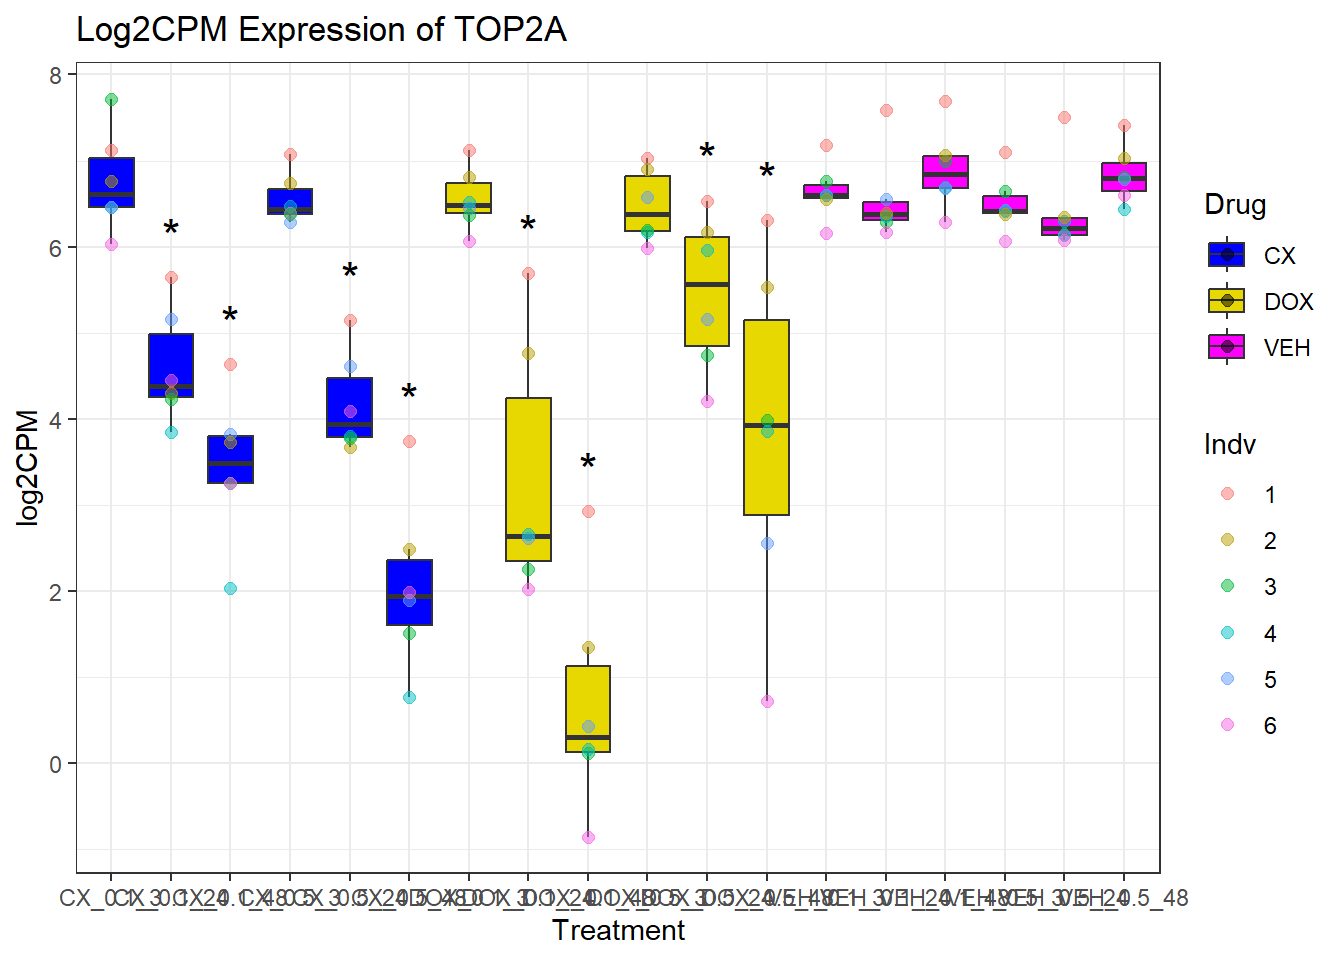
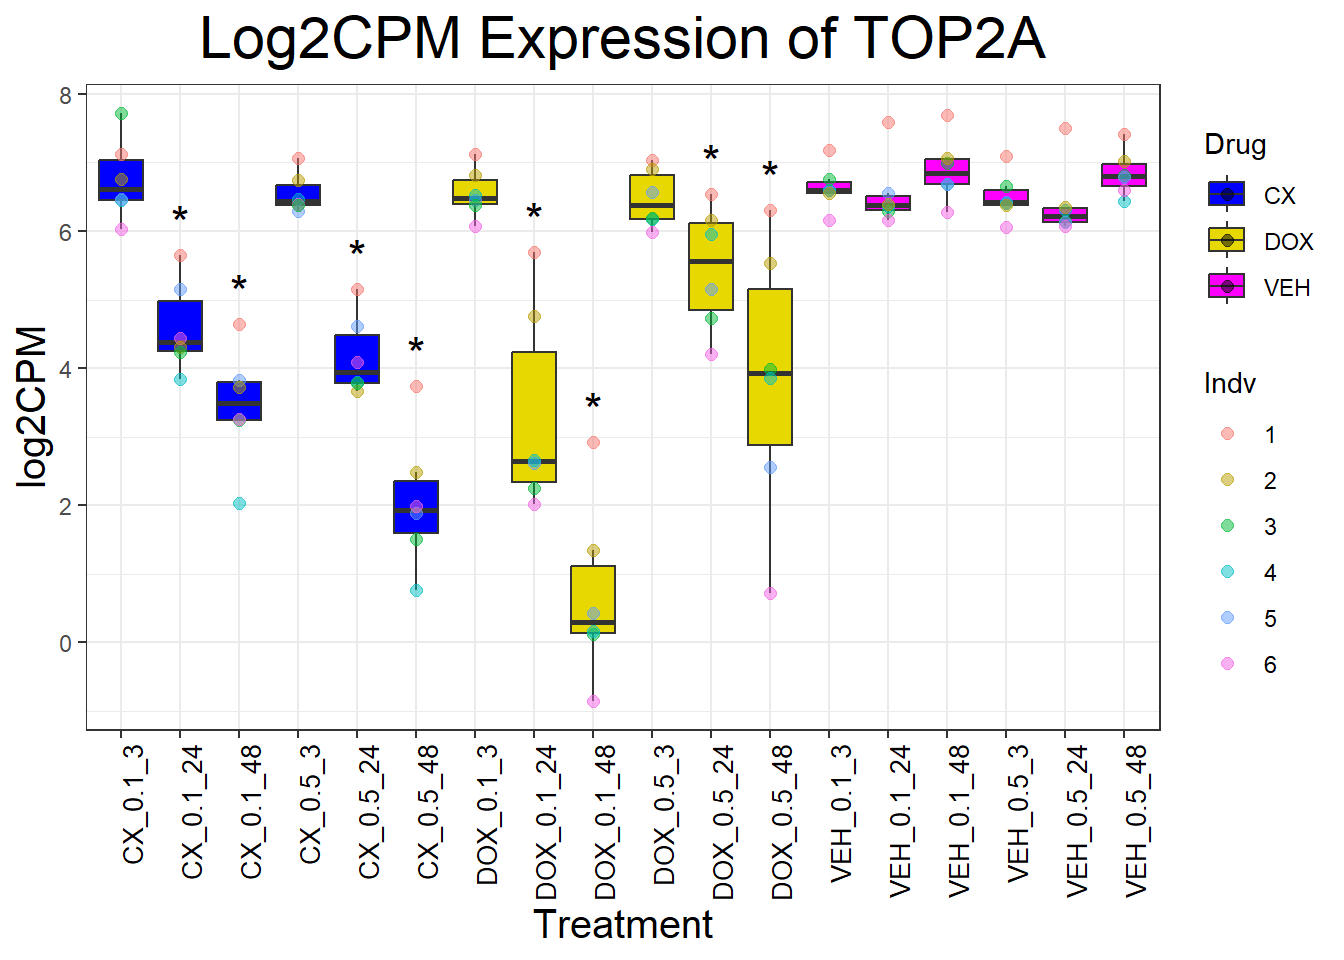
Build site.

diff --git a/docs/Cardiac_and_TOP2_Genes.html b/docs/Cardiac_and_TOP2_Genes.html
@@ -510,15 +510,15 @@ project makes it easier to run your code on other machines.</p>
 <div class="panel panel-default">
 <div class="panel-heading">
 <p class="panel-title">
-<a data-toggle="collapse" data-parent="#workflowr-checks" href="#strongRepositoryversionstrongahrefhttpsgithubcomsayanpaul01CX5461Projecttree91f5f8f51cd57fdd0d6ab9be529ef747ba23f697targetblank91f5f8fa">
+<a data-toggle="collapse" data-parent="#workflowr-checks" href="#strongRepositoryversionstrongahrefhttpsgithubcomsayanpaul01CX5461Projecttree0e79f5b46c58a97a56b44cd383e25e397f65a5ddtargetblank0e79f5ba">
 <span class="glyphicon glyphicon-ok text-success"
 aria-hidden="true"></span> <strong>Repository version:</strong>
-<a href="https://github.com/sayanpaul01/CX5461_Project/tree/91f5f8f51cd57fdd0d6ab9be529ef747ba23f697" target="_blank">91f5f8f</a>
+<a href="https://github.com/sayanpaul01/CX5461_Project/tree/0e79f5b46c58a97a56b44cd383e25e397f65a5dd" target="_blank">0e79f5b</a>
 </a>
 </p>
 </div>
 <div
[2 lines of base64/hex data omitted]
 class="panel-collapse collapse">
 <div class="panel-body">
 <p>
@@ -528,7 +528,7 @@ reproducibility.
 </p>
 <p>
 The results in this page were generated with repository version
-<a href="https://github.com/sayanpaul01/CX5461_Project/tree/91f5f8f51cd57fdd0d6ab9be529ef747ba23f697" target="_blank">91f5f8f</a>.
+<a href="https://github.com/sayanpaul01/CX5461_Project/tree/0e79f5b46c58a97a56b44cd383e25e397f65a5dd" target="_blank">0e79f5b</a>.
 See the <em>Past versions</em> tab to see a history of the changes made
 to the R Markdown and HTML files.
 </p>
@@ -546,9 +546,6 @@ Ignored files:
     Ignored:    .RData
     Ignored:    .Rhistory
     Ignored:    .Rproj.user/
-
-Untracked files:
-    Untracked:  figures/
 
 </code></pre>
 <p>
@@ -595,6 +592,40 @@ Message
 </tr>
 </thead>
 <tbody>
+<tr>
+<td>
+Rmd
+</td>
+<td>
+<a href="https://github.com/sayanpaul01/CX5461_Project/blob/0e79f5b46c58a97a56b44cd383e25e397f65a5dd/analysis/Cardiac_and_TOP2_Genes.Rmd" target="_blank">0e79f5b</a>
+</td>
+<td>
+sayanpaul01
+</td>
+<td>
+2025-02-09
+</td>
+<td>
+Fix Timepoint Ordering in Boxplots
+</td>
+</tr>
+<tr>
+<td>
+html
+</td>
+<td>
+<a href="https://rawcdn.githack.com/sayanpaul01/CX5461_Project/a41bd50f54ee5b4135624dfb8e15703031b2b998/docs/Cardiac_and_TOP2_Genes.html" target="_blank">a41bd50</a>
+</td>
+<td>
+sayanpaul01
+</td>
+<td>
+2025-02-09
+</td>
+<td>
+Build site.
+</td>
+</tr>
 <tr>
 <td>
 Rmd
@@ -827,6 +858,17 @@ Date
 <tbody>
 <tr>
 <td>
+<a href="https://github.com/sayanpaul01/CX5461_Project/blob/a41bd50f54ee5b4135624dfb8e15703031b2b998/docs/figure/Cardiac_and_TOP2_Genes.Rmd/Cardiac-1.png" target="_blank">a41bd50</a>
+</td>
+<td>
+sayanpaul01
+</td>
+<td>
+2025-02-09
+</td>
+</tr>
+<tr>
+<td>
 <a href="https://github.com/sayanpaul01/CX5461_Project/blob/8c1912ffcb4a6b781973fbafe15cbad8209cc4ea/docs/figure/Cardiac_and_TOP2_Genes.Rmd/Cardiac-1.png" target="_blank">8c1912f</a>
 </td>
 <td>
@@ -863,6 +905,17 @@ Date
 </tr>
 </thead>
 <tbody>
+<tr>
+<td>
+<a href="https://github.com/sayanpaul01/CX5461_Project/blob/a41bd50f54ee5b4135624dfb8e15703031b2b998/docs/figure/Cardiac_and_TOP2_Genes.Rmd/Cardiac-2.png" target="_blank">a41bd50</a>
+</td>
+<td>
+sayanpaul01
+</td>
+<td>
+2025-02-09
+</td>
+</tr>
 <tr>
 <td>
 <a href="https://github.com/sayanpaul01/CX5461_Project/blob/8c1912ffcb4a6b781973fbafe15cbad8209cc4ea/docs/figure/Cardiac_and_TOP2_Genes.Rmd/Cardiac-2.png" target="_blank">8c1912f</a>
@@ -903,6 +956,17 @@ Date
 <tbody>
 <tr>
 <td>
+<a href="https://github.com/sayanpaul01/CX5461_Project/blob/a41bd50f54ee5b4135624dfb8e15703031b2b998/docs/figure/Cardiac_and_TOP2_Genes.Rmd/Cardiac-3.png" target="_blank">a41bd50</a>
+</td>
+<td>
+sayanpaul01
+</td>
+<td>
+2025-02-09
+</td>
+</tr>
+<tr>
+<td>
 <a href="https://github.com/sayanpaul01/CX5461_Project/blob/8c1912ffcb4a6b781973fbafe15cbad8209cc4ea/docs/figure/Cardiac_and_TOP2_Genes.Rmd/Cardiac-3.png" target="_blank">8c1912f</a>
 </td>
 <td>
@@ -939,6 +1003,17 @@ Date
 </tr>
 </thead>
 <tbody>
+<tr>
+<td>
+<a href="https://github.com/sayanpaul01/CX5461_Project/blob/a41bd50f54ee5b4135624dfb8e15703031b2b998/docs/figure/Cardiac_and_TOP2_Genes.Rmd/Cardiac-4.png" target="_blank">a41bd50</a>
+</td>
+<td>
+sayanpaul01
+</td>
+<td>
+2025-02-09
+</td>
+</tr>
 <tr>
 <td>
 <a href="https://github.com/sayanpaul01/CX5461_Project/blob/8c1912ffcb4a6b781973fbafe15cbad8209cc4ea/docs/figure/Cardiac_and_TOP2_Genes.Rmd/Cardiac-4.png" target="_blank">8c1912f</a>
@@ -979,6 +1054,17 @@ Date
 <tbody>
 <tr>
 <td>
+<a href="https://github.com/sayanpaul01/CX5461_Project/blob/a41bd50f54ee5b4135624dfb8e15703031b2b998/docs/figure/Cardiac_and_TOP2_Genes.Rmd/Cardiac-5.png" target="_blank">a41bd50</a>
+</td>
+<td>
+sayanpaul01
+</td>
+<td>
+2025-02-09
+</td>
+</tr>
+<tr>
+<td>
 <a href="https://github.com/sayanpaul01/CX5461_Project/blob/8c1912ffcb4a6b781973fbafe15cbad8209cc4ea/docs/figure/Cardiac_and_TOP2_Genes.Rmd/Cardiac-5.png" target="_blank">8c1912f</a>
 </td>
 <td>
@@ -1015,6 +1101,17 @@ Date
 </tr>
 </thead>
 <tbody>
+<tr>
+<td>
+<a href="https://github.com/sayanpaul01/CX5461_Project/blob/a41bd50f54ee5b4135624dfb8e15703031b2b998/docs/figure/Cardiac_and_TOP2_Genes.Rmd/Cardiac-6.png" target="_blank">a41bd50</a>
+</td>
+<td>
+sayanpaul01
+</td>
+<td>
+2025-02-09
+</td>
+</tr>
 <tr>
 <td>
 <a href="https://github.com/sayanpaul01/CX5461_Project/blob/8c1912ffcb4a6b781973fbafe15cbad8209cc4ea/docs/figure/Cardiac_and_TOP2_Genes.Rmd/Cardiac-6.png" target="_blank">8c1912f</a>
@@ -1055,6 +1152,17 @@ Date
 <tbody>
 <tr>
 <td>
+<a href="https://github.com/sayanpaul01/CX5461_Project/blob/a41bd50f54ee5b4135624dfb8e15703031b2b998/docs/figure/Cardiac_and_TOP2_Genes.Rmd/Cardiac-7.png" target="_blank">a41bd50</a>
+</td>
+<td>
+sayanpaul01
+</td>
+<td>
+2025-02-09
+</td>
+</tr>
+<tr>
+<td>
 <a href="https://github.com/sayanpaul01/CX5461_Project/blob/8c1912ffcb4a6b781973fbafe15cbad8209cc4ea/docs/figure/Cardiac_and_TOP2_Genes.Rmd/Cardiac-7.png" target="_blank">8c1912f</a>
 </td>
 <td>
@@ -1091,6 +1199,17 @@ Date
 </tr>
 </thead>
 <tbody>
+<tr>
+<td>
+<a href="https://github.com/sayanpaul01/CX5461_Project/blob/a41bd50f54ee5b4135624dfb8e15703031b2b998/docs/figure/Cardiac_and_TOP2_Genes.Rmd/Cardiac-8.png" target="_blank">a41bd50</a>
+</td>
+<td>
+sayanpaul01
+</td>
+<td>
+2025-02-09
+</td>
+</tr>
 <tr>
 <td>
 <a href="https://github.com/sayanpaul01/CX5461_Project/blob/8c1912ffcb4a6b781973fbafe15cbad8209cc4ea/docs/figure/Cardiac_and_TOP2_Genes.Rmd/Cardiac-8.png" target="_blank">8c1912f</a>
@@ -1131,6 +1250,17 @@ Date
 <tbody>
 <tr>
 <td>
+<a href="https://github.com/sayanpaul01/CX5461_Project/blob/a41bd50f54ee5b4135624dfb8e15703031b2b998/docs/figure/Cardiac_and_TOP2_Genes.Rmd/Cardiac-9.png" target="_blank">a41bd50</a>
+</td>
+<td>
+sayanpaul01
+</td>
+<td>
+2025-02-09
+</td>
+</tr>
+<tr>
+<td>
 <a href="https://github.com/sayanpaul01/CX5461_Project/blob/8c1912ffcb4a6b781973fbafe15cbad8209cc4ea/docs/figure/Cardiac_and_TOP2_Genes.Rmd/Cardiac-9.png" target="_blank">8c1912f</a>
 </td>
 <td>
@@ -1167,6 +1297,17 @@ Date
 </tr>
 </thead>
 <tbody>
+<tr>
+<td>
+<a href="https://github.com/sayanpaul01/CX5461_Project/blob/a41bd50f54ee5b4135624dfb8e15703031b2b998/docs/figure/Cardiac_and_TOP2_Genes.Rmd/Cardiac-10.png" target="_blank">a41bd50</a>
+</td>
+<td>
+sayanpaul01
+</td>
+<td>
+2025-02-09
+</td>
+</tr>
 <tr>
 <td>
 <a href="https://github.com/sayanpaul01/CX5461_Project/blob/8c1912ffcb4a6b781973fbafe15cbad8209cc4ea/docs/figure/Cardiac_and_TOP2_Genes.Rmd/Cardiac-10.png" target="_blank">8c1912f</a>
@@ -1207,6 +1348,17 @@ Date
 <tbody>
 <tr>
 <td>
+<a href="https://github.com/sayanpaul01/CX5461_Project/blob/a41bd50f54ee5b4135624dfb8e15703031b2b998/docs/figure/Cardiac_and_TOP2_Genes.Rmd/Cardiac-11.png" target="_blank">a41bd50</a>
+</td>
+<td>
+sayanpaul01
+</td>
+<td>
+2025-02-09
+</td>
+</tr>
+<tr>
+<td>
 <a href="https://github.com/sayanpaul01/CX5461_Project/blob/8c1912ffcb4a6b781973fbafe15cbad8209cc4ea/docs/figure/Cardiac_and_TOP2_Genes.Rmd/Cardiac-11.png" target="_blank">8c1912f</a>
 </td>
 <td>
@@ -1233,8 +1385,11 @@ sayanpaul01
               inherit.aes = FALSE, size = 6, color = &quot;black&quot;) +
     ggtitle(paste(&quot;Log2CPM Expression of&quot;, gene)) +
     labs(x = &quot;Treatment&quot;, y = &quot;log2CPM&quot;) +
-    theme_bw()
-
+    theme_bw() +
+    theme(plot.title = element_text(size = rel(2), hjust = 0.5),
+          axis.title = element_text(size = 15, color = &quot;black&quot;),
+          axis.text.x = element_text(size = 10, color = &quot;black&quot;, angle = 90, hjust = 1))
+  
   print(p)
 }</code></pre>
 <p><img src="figure/Cardiac_and_TOP2_Genes.Rmd/TOP2-1.png" width="672" style="display: block; margin: auto;" /></p>
@@ -1260,6 +1415,17 @@ Date
 </tr>
 </thead>
 <tbody>
+<tr>
+<td>
+<a href="https://github.com/sayanpaul01/CX5461_Project/blob/a41bd50f54ee5b4135624dfb8e15703031b2b998/docs/figure/Cardiac_and_TOP2_Genes.Rmd/TOP2-1.png" target="_blank">a41bd50</a>
+</td>
+<td>
+sayanpaul01
+</td>
+<td>
+2025-02-09
+</td>
+</tr>
 <tr>
 <td>
 <a href="https://github.com/sayanpaul01/CX5461_Project/blob/8c1912ffcb4a6b781973fbafe15cbad8209cc4ea/docs/figure/Cardiac_and_TOP2_Genes.Rmd/TOP2-1.png" target="_blank">8c1912f</a>
@@ -1298,6 +1464,17 @@ Date
 </tr>
 </thead>
 <tbody>
+<tr>
+<td>
+<a href="https://github.com/sayanpaul01/CX5461_Project/blob/a41bd50f54ee5b4135624dfb8e15703031b2b998/docs/figure/Cardiac_and_TOP2_Genes.Rmd/TOP2-2.png" target="_blank">a41bd50</a>
+</td>
+<td>
+sayanpaul01
+</td>
+<td>
+2025-02-09
+</td>
+</tr>
 <tr>
 <td>
 <a href="https://github.com/sayanpaul01/CX5461_Project/blob/8c1912ffcb4a6b781973fbafe15cbad8209cc4ea/docs/figure/Cardiac_and_TOP2_Genes.Rmd/TOP2-2.png" target="_blank">8c1912f</a>
